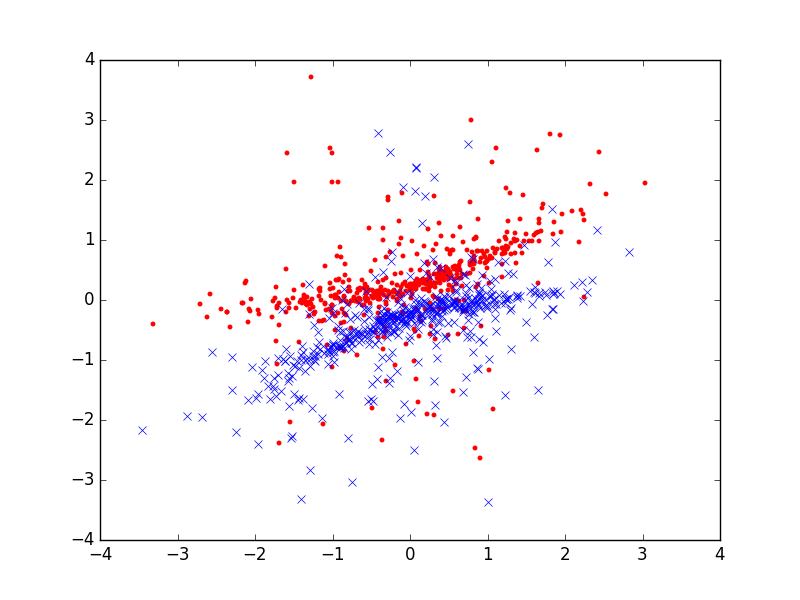
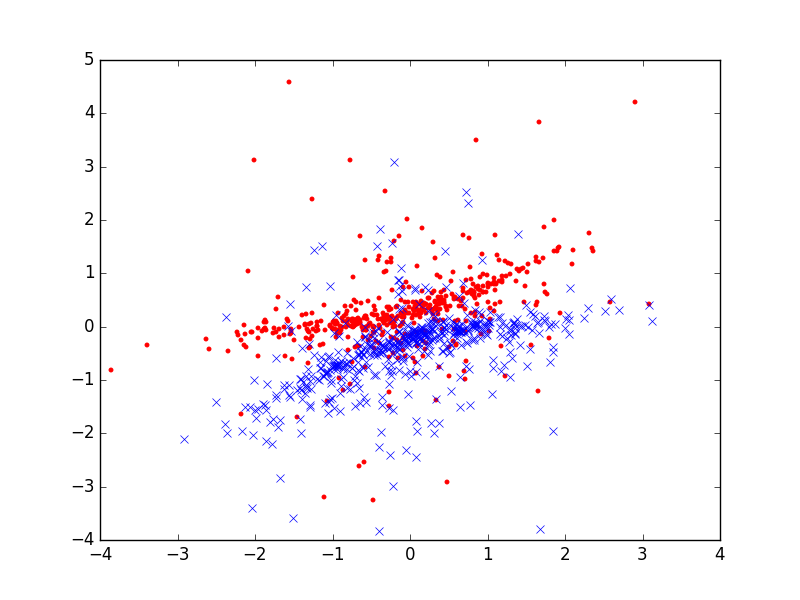
commit

diff --git a/feedback_main.py b/feedback_main.py
@@ -1,5 +1,6 @@
-# Feedback code simulation. 
-# Load presaved mean and variance! 
+__author__ = 'hyejikim'
+
+# Deepcode simulation. 
 import numpy as np
 import tensorflow as tf
 import keras
@@ -105,15 +106,6 @@ class ScaledLayer(Layer): # Power Allocation Layer
         self.W3 = self.add_weight(name = 'power_weight2', shape=(1,), # Power allocation for parity 2 stream
                                  initializer='ones', trainable=True)
          
-        self.g1 = self.add_weight(name = 'g1', shape=(1,), 
-                                 initializer='ones', trainable=True) # Power allocation for 1st bit
-        self.g2 = self.add_weight(name = 'g2', shape=(1,), 
-                                 initializer='ones', trainable=True) # Power allocation for 2nd bit
-        self.g3 = self.add_weight(name = 'g3', shape=(1,), 
-                                 initializer='ones', trainable=True) # Power allocation for 3rd bit
-        self.g4 = self.add_weight(name = 'g4', shape=(1,), 
-                                 initializer='ones', trainable=True) # Power allocation for 4th bit
- 
         self.b1 = self.add_weight(name = 'b1', shape=(1,), 
                                  initializer='ones', trainable=True) # Power allocation for last-4 bit
         self.b2 = self.add_weight(name = 'b2', shape=(1,), 
@@ -125,6 +117,16 @@ class ScaledLayer(Layer): # Power Allocation Layer
         self.b5 = self.add_weight(name = 'b5', shape=(1,), 
                                  initializer='ones', trainable=True) # Power allocation for last bit
   
+        self.g1 = self.add_weight(name = 'g1', shape=(1,), 
+                                 initializer='ones', trainable=True) # Power allocation for 1st bit
+        self.g2 = self.add_weight(name = 'g2', shape=(1,), 
+                                 initializer='ones', trainable=True) # Power allocation for 2nd bit
+        self.g3 = self.add_weight(name = 'g3', shape=(1,), 
+                                 initializer='ones', trainable=True) # Power allocation for 3rd bit
+        self.g4 = self.add_weight(name = 'g4', shape=(1,), 
+                                 initializer='ones', trainable=True) # Power allocation for 4th bit
+ 
+
         super(ScaledLayer, self).build(input_shape)
     def call(self, x, mask=None):
         sys = tf.reshape(tf.multiply(x[:,:,0], self.W),[tf.shape(x)[0],tf.shape(x)[1],1])
@@ -239,10 +241,10 @@ id = str(bit_length)+'_'+str(fsSNR)+'_'+str(nsSNR)
  
 # Load model
 if '-fs' in n_inp:
-    model.load_weights('model/round3_powerabr_new_noisy_nettype_rnnrate3tx_50_rx_50_len_51_'+str(fsSNR)+'_0.h5')
+    model.load_weights('model/round3_powerabr_new_noisy_nettype_rnnrate3tx_50_rx_50_len_51_'+str(fsSNR)+'_0.h5',by_name=True)
     print 'model noise', str(fsSNR),'dB'
 else:
-    model.load_weights('model/round4_powerabr_new_nettype_rnnrate3tx_50_rx_50_len_51_20_'+str(nsSNR)+'.h5')
+    model.load_weights('model/round4_powerabr_new_nettype_rnnrate3tx_50_rx_50_len_51_20_'+str(nsSNR)+'.h5',by_name=True)
     print 'model', str(nsSNR),'dB'
     
 
@@ -288,11 +290,10 @@ codewords = model_cw.predict(X_test_noise, batch_size=test_batch_size)
 print 'power of codewords: ', np.var(codewords)
 print 'mean of codewords: ', np.mean(codewords)
 
-# print '-------Evaluation start: BER and BLER of decoder -------'
 predicted = np.round(model.predict(X_test_noise, batch_size=test_batch_size))
 predicted = predicted[:,0:bit_length-1,:] # Ignore the last bit (zero padding) 
- 
 target = X_test[:,0:bit_length-1,:].reshape([X_test.shape[0],X_test.shape[1]-1,1]) # Ignore the last bit (zero padding)
+
 # BER
 c_ber = 1- sum(sum(predicted == target))*\
        1.0/(target.shape[0] * target.shape[1] *target.shape[2])
@@ -305,5 +306,40 @@ print 'BLER of decoder estimate: ', bler
 
 # Interpret: generate Figure 5
 interpret = True
+
 if interpret == True:
-	execfile('interpret.py')
+
+    r1 = X_test_noise[:,:,0] # b_i
+    n1 = X_test_noise[:,:,1] # N_i
+    n2 = X_test_noise[:,:,2] # M_{i-1}
+    n3 = X_test_noise[:,:,3] # O_{i-1}
+    p1 = codewords[:,:,1]    # Parity1_i
+    p2 = codewords[:,:,2]    # Parity2_i 
+    
+    num_sample_points = 20 # Number of sample points
+    rr1 = r1[0:num_sample_points,:] # b_i
+    nn1 = n1[0:num_sample_points,:] # N_i
+    nn2 = n2[0:num_sample_points,:] # M_{i-1}
+    nn3 = n3[0:num_sample_points,:] # O_{i-1}
+    pp1 = p1[0:num_sample_points,:] # Parity1_i
+    pp2 = p2[0:num_sample_points,:] # Parity2_i
+
+    plt.close()
+    plt.plot(nn1[rr1==0],pp1[rr1==0],'r.')
+    plt.plot(nn1[rr1==1],pp1[rr1==1],'bx')
+    plt.savefig('figs/SNR'+str(nsSNR)+'plot'+str(num_sample_points)+'_PhaseI_noise_vs_parity1.png')
+
+    plt.close()
+    plt.plot(nn1[rr1==0],pp2[rr1==0],'r.')
+    plt.plot(nn1[rr1==1],pp2[rr1==1],'bx')
+    plt.savefig('figs/SNR'+str(nsSNR)+'plot'+str(num_sample_points)+'_PhaseI_noise_vs_parity2.png')
+
+    plt.close()
+    plt.plot(pp1[rr1==0],pp2[rr1==0],'r.')
+    plt.plot(pp1[rr1==1],pp2[rr1==1],'bx')
+    plt.savefig('figs/SNR'+str(nsSNR)+'plot_'+str(num_sample_points)+'_parity1_vs_parity2.png')
+
+
+
+
+

diff --git a/README.md b/README.md
@@ -1,25 +1,34 @@
-# feedback_code
-Discovering Feedback Codes via Deep Learning, by Hyeji Kim, Yihan Jiang, Sreeram Kannan, Sewoong Oh, and Pramod Viswanath
+# Deepcode
 
-# Noiseless feedback -ns followed by forward SNR
+Deepcode: Feedback Codes via Deep Learning, by Hyeji Kim, Yihan Jiang, Sreeram Kannan, Sewoong Oh, and Pramod Viswanath
 
-python feedback_main.py -ns -1
-python feedback_main.py -ns 0
-python feedback_main.py -ns 1
-python feedback_main.py -ns 2
+# Noiseless feedback 
 
-
-# Noisy feedback -ns followed by forward SNR and -fs followed by feedback SNR
-python feedback_main.py -ns 0 -fs -3
-python feedback_main.py -ns 0 -fs 3
-python feedback_main.py -ns 0 -fs 10
-python feedback_main.py -ns 0 -fs 20
+python feedback_main.py -ns -1 : Forward SNR -1dB
+python feedback_main.py -ns 0  : Forward SNR  0dB
+python feedback_main.py -ns 1  : Forward SNR  1dB
+python feedback_main.py -ns 2  : Forward SNR  2dB
 
 
-# Under ./meanvar:  meanvar_A_B_C.pickle holds mean and variance for causal normalization
+# Noisy feedback
 
-A: Blocklength (including zero padding; e.g. 51)
-B: Feedback SNR (e.g., -3.0, 3.0, 10.0, 20.0 (dB) and 20 for noiseless feedback) 
-C: Forward SNR (e.g., -1, 0, 1, 2 dB) 
+python feedback_main.py -ns 0 -fs -3  : Forward SNR 0dB Feedback SNR -3dB
+python feedback_main.py -ns 0 -fs 3   : Forward SNR 0dB Feedback SNR  3dB
+python feedback_main.py -ns 0 -fs 10  : Forward SNR 0dB Feedback SNR 10dB
+python feedback_main.py -ns 0 -fs 20  : Forward SNR 0dB Feedback SNR 20dB
 
-# Models under ./model
+
+# Normalization layer 
+
+Mean and variance for normalization layer is saved in meanvar/meanvar_Blocklength_FeedbackSNR_ForwardSNR.pickle
+
+meanvar_51_20_-1.pickle  : Blocklength 51 (50 + zero padding) Noiseless Feedback Forward SNR -1dB
+meanvar_51_20_0.pickle   : Blocklength 51 (50 + zero padding) Noiseless Feedback Forward SNR  0dB
+meanvar_51_20_1.pickle   : Blocklength 51 (50 + zero padding) Noiseless Feedback Forward SNR  1dB
+meanvar_51_20_2.pickle   : Blocklength 51 (50 + zero padding) Noiseless Feedback Forward SNR  2dB
+
+meanvar_51_-3.0_0.pickle : Blocklength 51 (50 + zero padding) Feedback SNR -3dB Forward SNR  0dB
+meanvar_51_3.0_0.pickle  : Blocklength 51 (50 + zero padding) Feedback SNR  3dB Forward SNR  0dB
+meanvar_51_10.0_0.pickle : Blocklength 51 (50 + zero padding) Feedback SNR 10dB Forward SNR  0dB
+meanvar_51_20.0_0.pickle : BLocklength 51 (50 + zero padding) Feedback SNR 20dB Forward SNR  0dB
+
